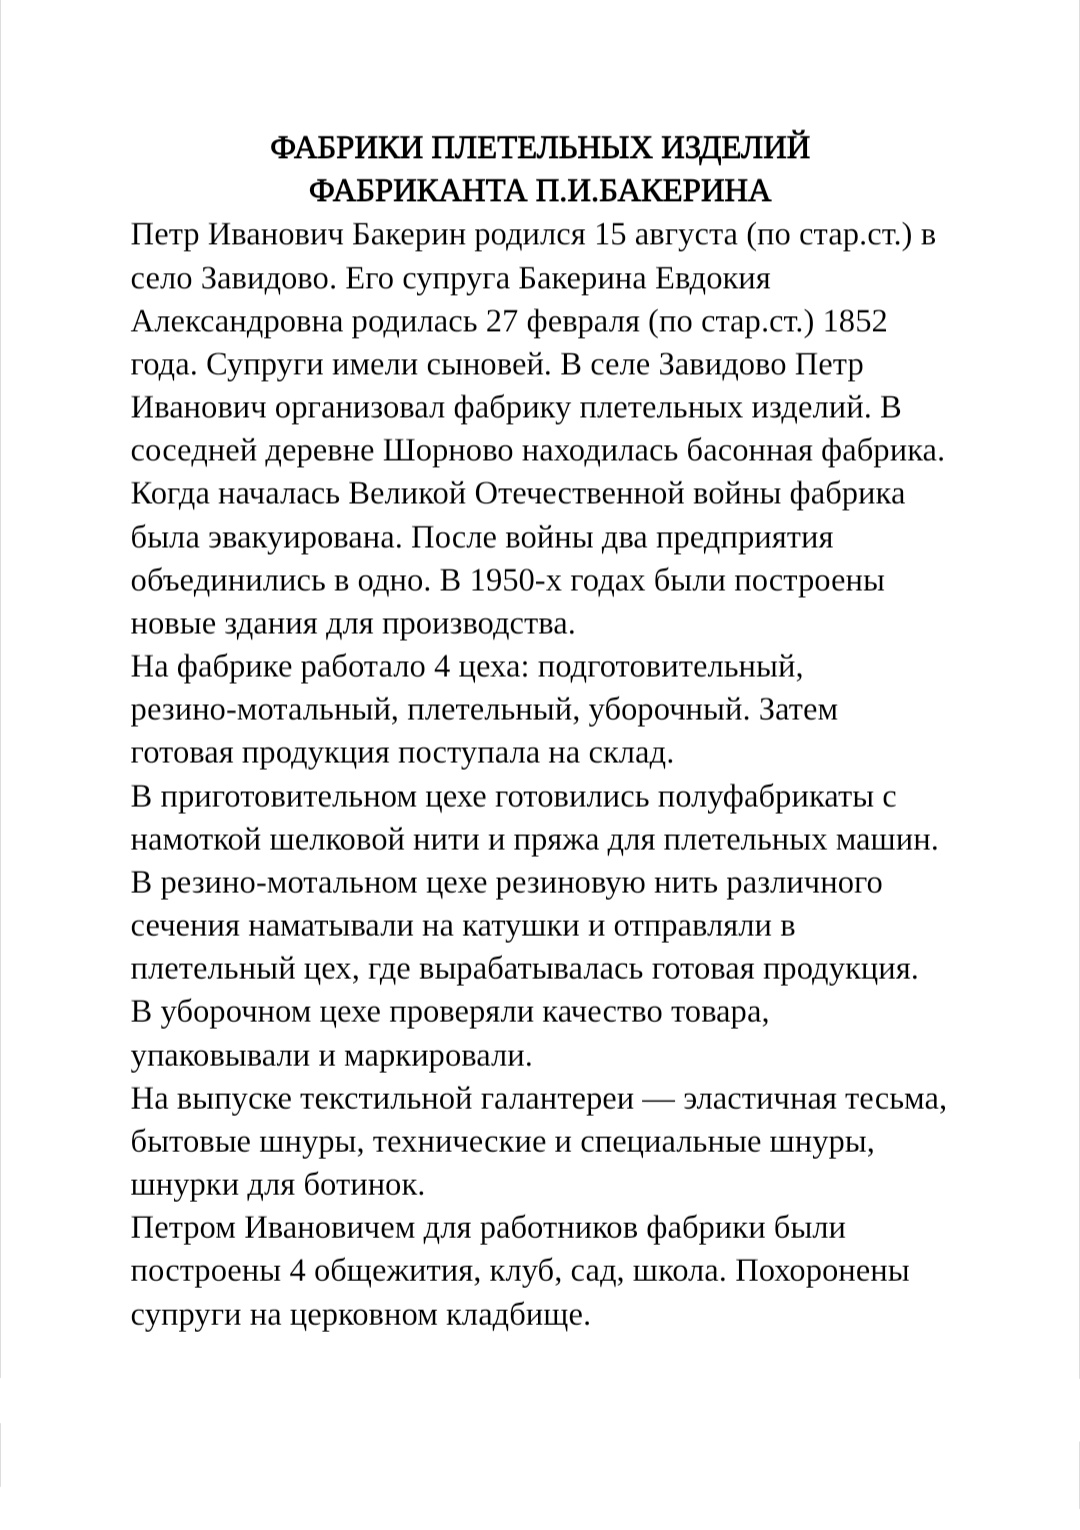
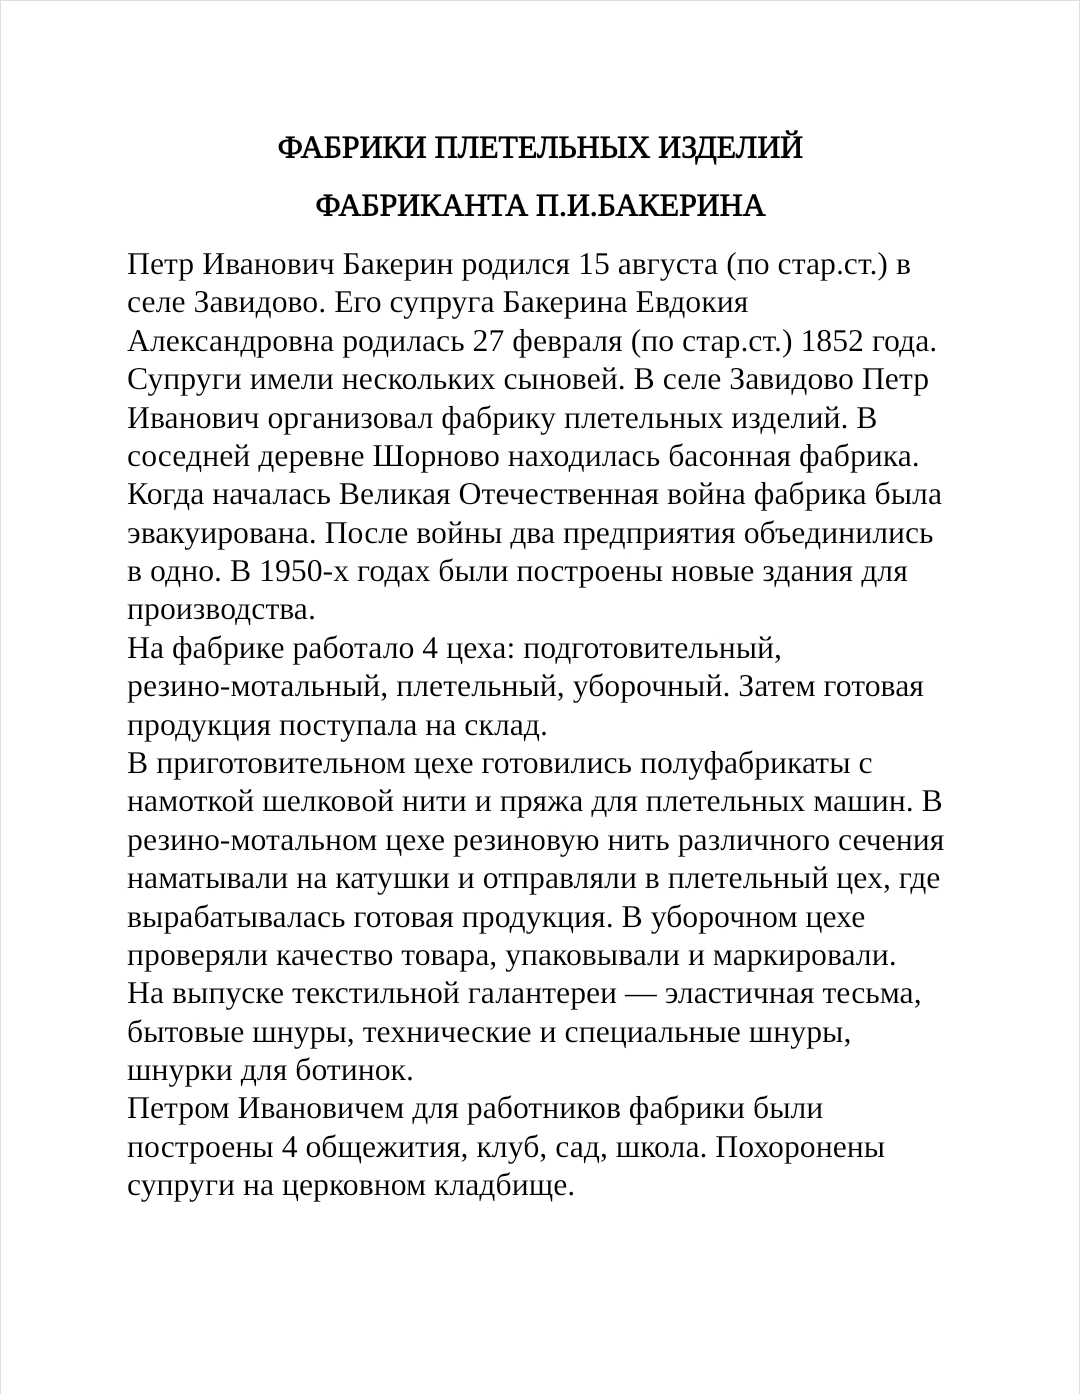
Update XXIV image and trophy marker

Changed region(s): [[0.1222, 0.0617, 0.8861, 0.8637]]

diff --git a/script.js b/script.js
@@ -513,8 +513,8 @@ const LONGITUDINAL_OBJECTS = [
     title: "Военные трофеи",
     number: "4",
     color: "blue",
-    left: "76.7%",
-    top: "47.8%",
+    left: "78.2%",
+    top: "49.3%",
     type: "exhibit",
   },
 ];
@@ -795,11 +795,14 @@ function encodePath(dir, file, preserveImageFormat = false) {
     file === "audio_for_Bratskaya_mogila_v_derevne_Varaksino_(I)_info_about_image.mp3";
   const isUpdatedVaraksinoText = dir === TEXT_DIR &&
     file === "Bratskaya_mogila_v_derevne_Varaksino_(I)_info_about_image.txt";
+  const isUpdatedZavidovoXXIV = dir === IMAGE_DIR &&
+    file === "Stend_about_Zavidovo_history(2)_(XXIV).jpg";
   return isUpdatedMemoryDisplay
     ? `${path}?v=20261108-1`
     : isUpdatedEntranceMap ? `${path}?v=20261108-2`
       : isUpdatedMotovilinAudio ? `${path}?v=20261118-1`
-        : isUpdatedVaraksinoAudio || isUpdatedVaraksinoText ? `${path}?v=20261115-2` : path;
+        : isUpdatedVaraksinoAudio || isUpdatedVaraksinoText ? `${path}?v=20261115-2`
+          : isUpdatedZavidovoXXIV ? `${path}?v=20261121-xxiv-2` : path;
 }
 
 function createPanZoom(viewport, world) {

diff --git a/index.html b/index.html
@@ -591,7 +591,7 @@
   </div>
 
   <script src="guestbook-config.js?v=20261115-1"></script>
-  <script src="script.js?v=20261121-audio-mappings-1"></script>
+  <script src="script.js?v=20261121-xxiv-marker-1"></script>
   <script type="module" src="guestbook.js?v=20261121-moderator-mobile-3"></script>
 </body>
 </html>
